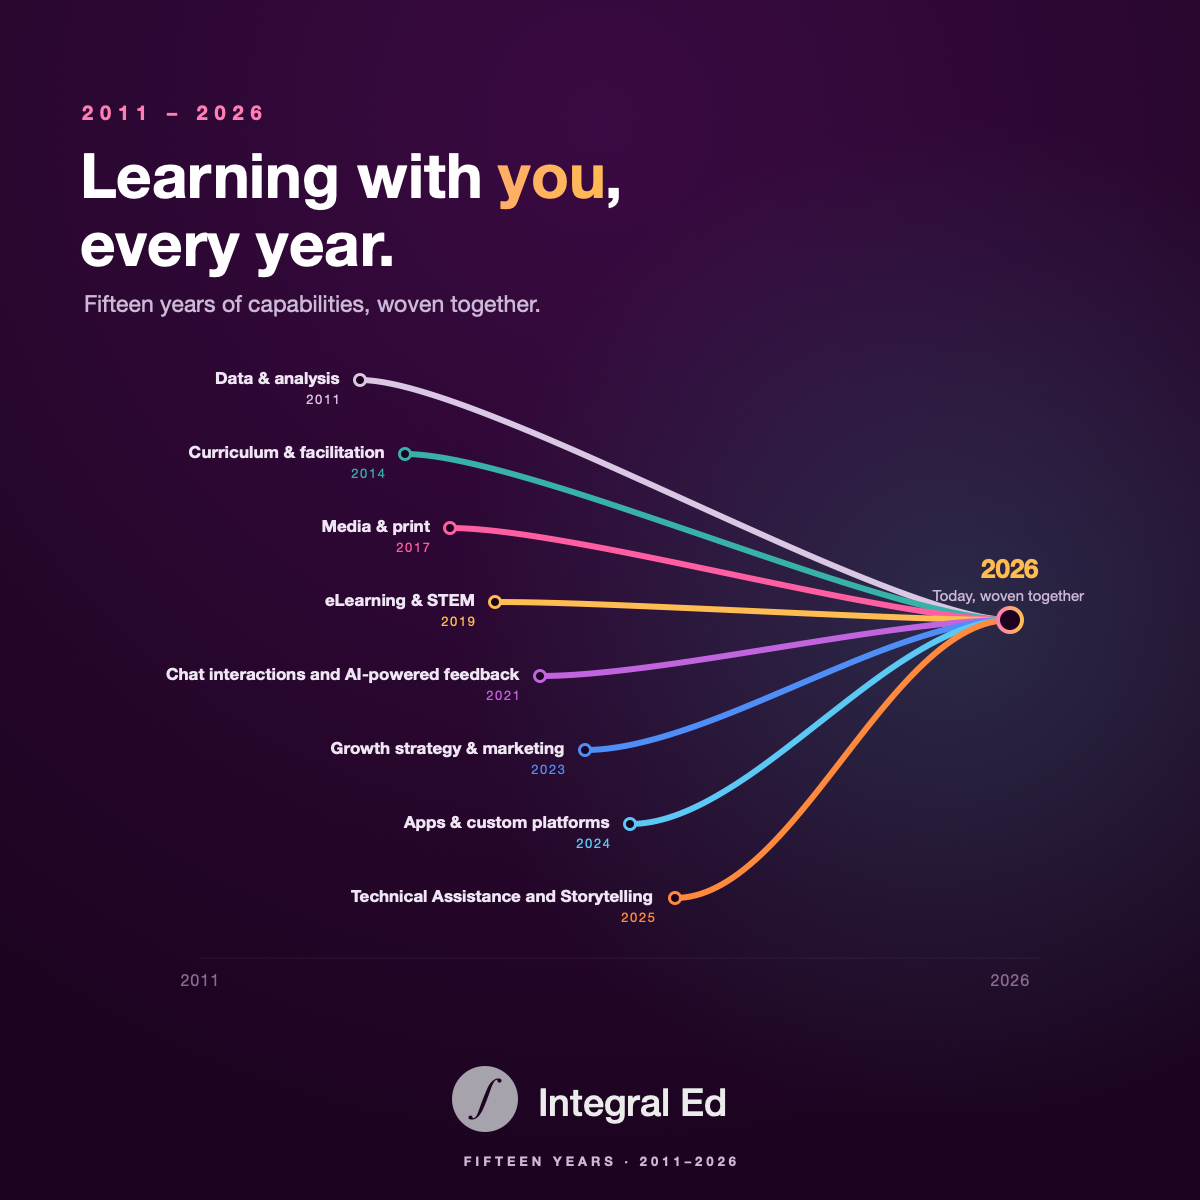
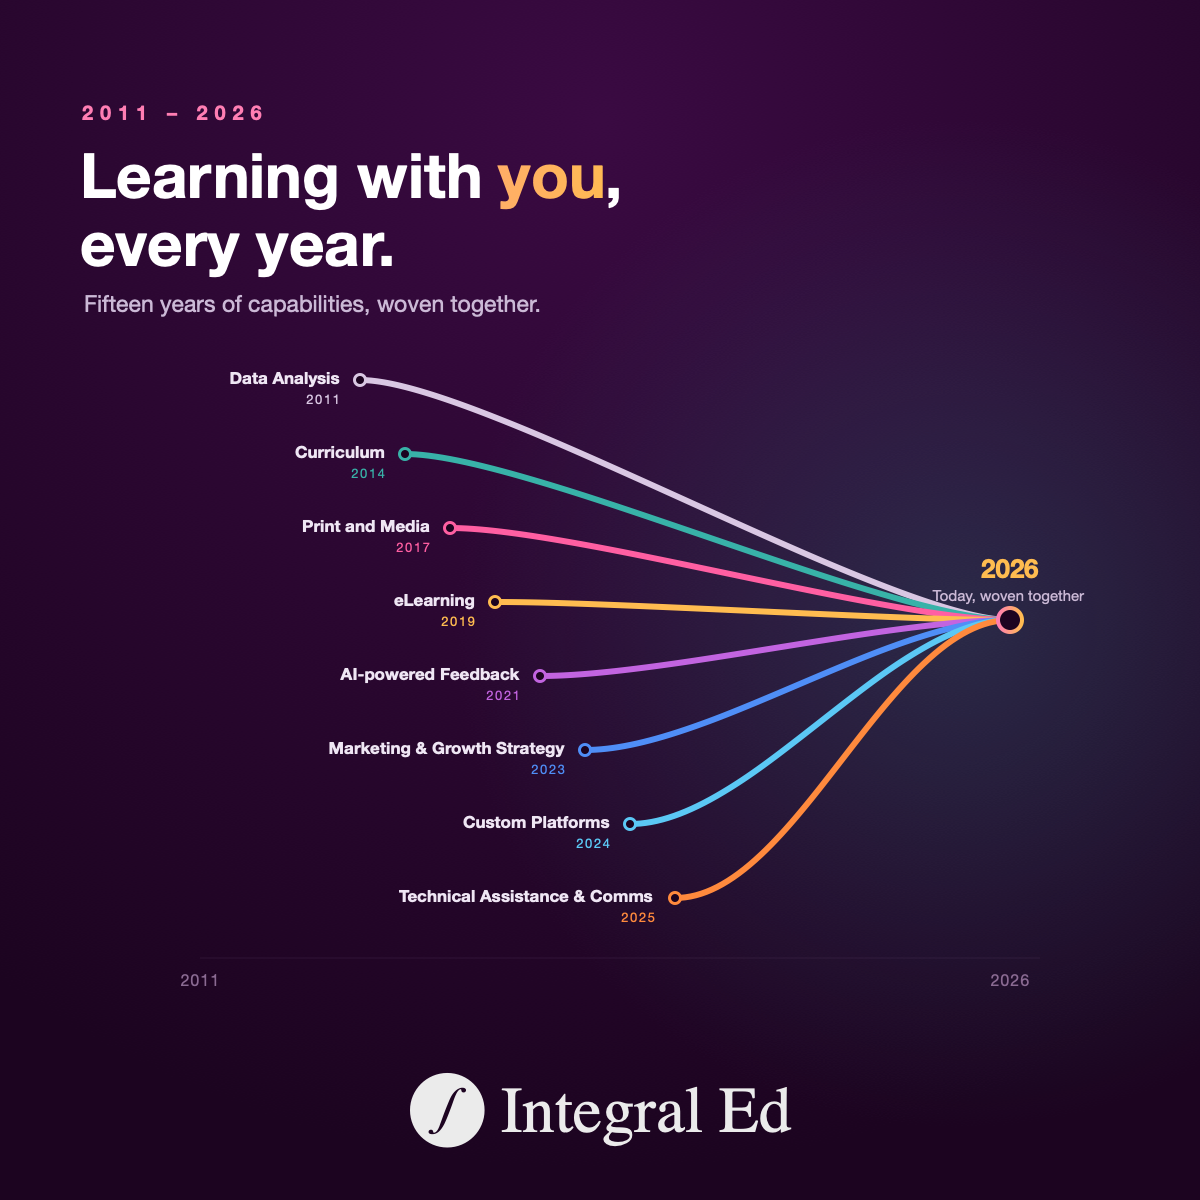
content(15th-anniversary): simplify evolution labels; square card uses official lockup
Rename the eight Evolution capability labels (page + square card) to the
shorter set: Data Analysis, Curriculum, Print and Media, eLearning,
AI-powered Feedback, Marketing & Growth Strategy, Custom Platforms,
Technical Assistance & Comms. Card footer now uses the official Integral
Ed horizontal lockup (as posted); redundant subtitle removed.

Verified on the page: all subway labels clear the left edge (min start-x
43 in a 0-1000 viewBox), rows 62px apart with no overlap, links unchanged
(positions are by year/id, not label text).

diff --git a/src/15th-anniversary/data/anniversary-data.js b/src/15th-anniversary/data/anniversary-data.js
@@ -337,7 +337,7 @@ window.ANNIVERSARY_DATA = {
       // Silver, not blue: the founding analytics stream isn't one of today's
       // six service areas, and blue now belongs to Growth Strategy &
       // Marketing so the map matches the timeline + services palette.
-      stage: "Data & analysis",
+      stage: "Data Analysis",
       tagline: "One person, one laptop.",
       whatWeCouldDo: "Turn messy data from multiple sources into actionable insights and data-driven storytelling.",
       proof: "The founding service: analytics for mission-driven education orgs.",
@@ -346,7 +346,7 @@ window.ANNIVERSARY_DATA = {
     {
       id: "curriculum",
       year: 2014,
-      stage: "Curriculum & facilitation",
+      stage: "Curriculum",
       tagline: "Slides, guides, facilitator kits.",
       whatWeCouldDo: "Design the curriculum and facilitator materials partners teach from.",
       proof: "Ava Millstone joins to lead curriculum and learning design.",
@@ -355,7 +355,7 @@ window.ANNIVERSARY_DATA = {
     {
       id: "media",
       year: 2017,
-      stage: "Media & print",
+      stage: "Print and Media",
       tagline: "Design, video, print media.",
       whatWeCouldDo: "Bring design, motion, and print-media craft to every learning experience.",
       proof: "Creative Director Asha Kelly joins; Michaela Bradley later builds out in-house media production.",
@@ -364,7 +364,7 @@ window.ANNIVERSARY_DATA = {
     {
       id: "elearning",
       year: 2019,
-      stage: "eLearning & STEM",
+      stage: "eLearning",
       tagline: "Interactive, blended, at scale.",
       whatWeCouldDo: "Build interactive, self-paced modules, including STEM-specialized experiences, that scale beyond the room.",
       proof: "Nadia Zaid joins for our first eLearning build with Early Learning Indiana; Cara Johnson grows our STEM specialization with Nano.",
@@ -373,7 +373,7 @@ window.ANNIVERSARY_DATA = {
     {
       id: "agentic",
       year: 2023,
-      stage: "Chat interactions and AI-powered feedback",
+      stage: "AI-powered Feedback",
       tagline: "Chat-based interviews, AI-assisted learning.",
       whatWeCouldDo: "Add chat-based interviews and AI-powered feedback so learning responds in real time and tailors to each learner.",
       proof: "Career Ikigai personalized pathway tool; the StriveTogether CI Toolkit later launches with an AI-powered chatbot.",
@@ -382,7 +382,7 @@ window.ANNIVERSARY_DATA = {
     {
       id: "growth",
       year: 2023,
-      stage: "Growth strategy & marketing",
+      stage: "Marketing & Growth Strategy",
       tagline: "Market plans, partnerships, front-of-funnel.",
       whatWeCouldDo: "Help clients plan and execute growth: marketing plans, sales and partnership team design, and go-to-market strategy for districts and LEAs.",
       proof: "Diane Takata Powell joins, anchoring the practice behind our Growth Strategy & Marketing service area.",
@@ -391,7 +391,7 @@ window.ANNIVERSARY_DATA = {
     {
       id: "apps",
       year: 2024,
-      stage: "Apps & custom platforms",
+      stage: "Custom Platforms",
       tagline: "Dashboards, custom LMS, AI-powered feedback.",
       whatWeCouldDo: "Design custom apps, data dashboards, and bespoke LMS builds, with AI-powered feedback wrapped around the learning.",
       proof: "App design for data dashboards, custom LMS, and AI-powered feedback join the toolkit.",
@@ -400,7 +400,7 @@ window.ANNIVERSARY_DATA = {
     {
       id: "techCapacity",
       year: 2025,
-      stage: "Technical Assistance and Storytelling",
+      stage: "Technical Assistance & Comms",
       tagline: "TA, design systems, and narrative for the field.",
       whatWeCouldDo: "Pair technical assistance with brand-grade storytelling: design systems, branded portals, print + web ecosystems, and field-facing publications that turn subject matter expertise into shareable practice.",
       proof: "The Baltimore Healthy Babies hub: subject matter expert interviews synthesized into seven branded publications + a content portal integrated into BHB's site.",